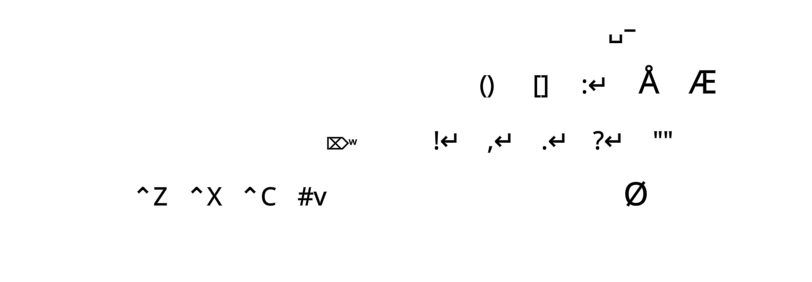
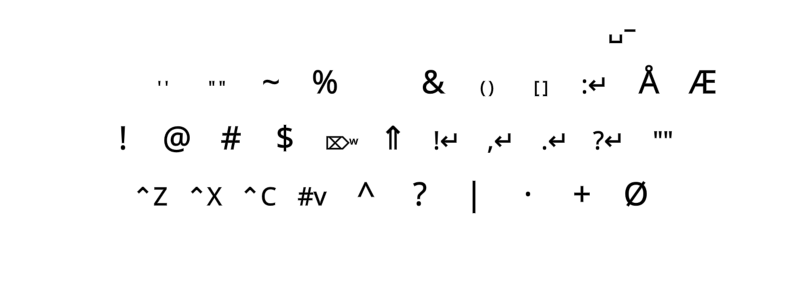
CoDeKey mapping tweaks
* Added and moved some mappings on the Compose_0 DK

diff --git a/README.md b/README.md
@@ -167,15 +167,14 @@ EPKL & Games
 ------------
 There are some pitfalls to using a keyboard remapping program like EPKL for gaming, which uses the keyboard very differently.
 
+TL;DR: Don't use eD-type (state mapped) layouts for gaming; eD2VK is okay. For key-intensive games like FPS, probably (auto-)suspend EPKL.
+
 In gaming a key is often held down for a longish time. This may lead to some problems:
 * The underlying OS layout sends repeated KeyDown key events that are picked up and processed by EPKL. KeyUp is only sent once, on key release.
 * When sending characters, AutoHotkey sends a KeyDown followed immediately by a KeyUp. So inbetween each sent KeyDown there will be an extra KeyUp.
     - The result of this is often choppy game controls. Also, the MonkeyType typing test site has a cheat detection that interprets this behavior as suspect.
-    - The solution is to use a VK/SC or System mapped layout (EPKL v1.4+). These send only the KeyDown events from the OS with no KeyUp until you release the key.
+    - The solution is to use a key mapped (VK/SC/eD2VK or System) layout. These send only the KeyDown events from the OS with no KeyUp until you release the key.
     - ShiftState maps like eD must still send input with KeyDown-KeyUp. If you use an eD-type layout, you can make EPKL sleep whenever your game is active.
-* Too many key presses in too short time makes normal AHK scripts miss key presses. EPKL uses a buffer queue to avoid this, but this buffer may eventually overflow.
-    - When you hold down a key for too long, EPKL may continue sending input events for a while after you let it go. EPKL may act strangely afterwards.
-    - To avoid this when using, say, Extend isn't so hard once you get used to it. But for many games it's still a problem. I'm working on a solution.
 * You can suspend EPKL at any time with its Suspend hotkey (default `Ctrl+Shift+3`). If you want your layout in-game, you may have to use a [MSKLC install][PklKLC].
 * If you want EPKL to suspend itself when your game or webpage is active, you can use the `suspendingApps` setting; see the [Settings file][SetDef].
 * You could try setting the Windows Key Repeat speed as low as possible, but I'm unsure whether it'll really help.
@@ -420,20 +419,14 @@ KNOWN ISSUES:
     - If your game doesn't work well with EPKL, you can use the `suspendingApps` setting to auto-suspend EPKL when the game's active.
     - If you need your layout for the game, you can use a VK/SC-mapped layout, a `MSKLC` install or whatever works for you. See the [Other\MSKLC][PklKLC] folder.
     - Note that EPKL v1.4+ has a send mode for ScanCode and VirtualKey mapped keys that should fix this problem!
-* Another effect of key repeats may be key buffer overflow, especially when using Extend combos.
-    - This is most notable when holding down Extend arrow combos such as `Ext+S+N` (select previous letter) for a while.
-    - Again, to effect this EPKL has to send more key presses including modifier up/down and key up/down.
-    - The result may be that EPKL's hotkey buffer overflows. Keys and modifiers may get stuck as a result.
-    - I've tried hard to get rid of this problem and it's much better than it used to be, but it's not completely gone.
-    - To mostly avoid this problem, use e.g., `Ext+T+S+N` to select whole words instead of single characters.
-    - Also, try not to hold your Extend combos down for too long if you can avoid it. You can often break it up a little with some training.
-    - If you do get in trouble, use the `Refresh` menu option to restart EPKL. That usually does the trick.
+    - There is also an eD2VK layout type that uses VK mapping based on an eD-type base layout. AltGr mappings won't work then.
 * ISO VK layouts may not send the right OEM_# key VK codes for all ISO locales.
     - This is bad for QWERTZ/AZERTY etc. Known affected locales are: UK, De, Fr, Be…
     - State mapped layouts should work, or you could figure out which VK codes are the right ones and edit the layout files accordingly.
     - Finding a more robust solution is on my TODO list. There should be new options shortly, including more robust ScanCode mappings.
 * Using the `Colemak w/ Caps -> Backspace` MSKLC install found on [colemak.com][CmkCom] will cause the Back and Caps keys to be swapped. Also, Extend will not work.
     - This is due to that layout being hacked to provide the Caps-to-Back remapping. Please use a normal Windows layout with EPKL.
+    - If you wish to hard swap keys, a better and safer way is to use the [SharpKeys][ShrpKy] program included with EPKL.
 * Windows intercepts certain key combinations like <kbd>Ctrl</kbd>+<kbd>Alt</kbd>+<kbd>Del</kbd> and <kbd>Win</kbd>+<kbd>L</kbd>
     - Consequently, these combinations may work oddly with state remaps like eD. Keys may end up working as both unmapped and remapped.
     - A workaround for this is to map a shortcut to `α#e` for accessing <kbd>Win</kbd>+<kbd>E</kbd> on Colemak. For Ext-tap, there's one on `{Ext,w}`.

diff --git a/Other/README.md b/Other/README.md
@@ -16,8 +16,10 @@ In this folder are some files that aren't used by EPKL but may still be interest
 	- Remappings can happen at the HKEY_LOCAL_MACHINE\SYSTEM level (for all users) or HKEY_CURRENT_USER only.
 	- Only one such remap script will take effect at a time, so if you want to do two things you have to edit your .reg file.
 	- The SetWinApp script may be used to set what apps the labels "App1" and "App2" refer to, e.g., for the Extend1 layer.
-- Instead of using RegEdit scripts, you could use the [SharpKeys program][ShrpKy] which does most of the same more safely.
+- Instead of using RegEdit scripts, you can use the [SharpKeys][ShrpKy] program which does most of the same more safely.
 	- I warmly recommend SharpKeys. It is available at the [Microsoft Store][ShrpMS] too, so it's quite official.
+	- It's hard to remap modifiers like the Alt keys well using EPKL. SharpKeys complements EPKL excellently in this respect.
+	- I use a combo of EPKL+SharpKeys to implement my BigBag [Modifier Modness][BBTMod] thumb keys. I'm very happy with that.
 - There's a MSKLC folder, that's about the Microsoft Keyboard Layout Creator program. With it you can make installable layouts.
 	- For a good guide to getting and using MSKLC, see [Henri's MSKLC Guide][MSKLCg].
 	- You'll need to install MSKLC from Microsoft's site. With it you can look at existing Win layouts and make new ones.
@@ -37,3 +39,4 @@ In this folder are some files that aren't used by EPKL but may still be interest
 [MSPTKM]: https://learn.microsoft.com/en-us/windows/powertoys/keyboard-manager (info on Microsoft PowerToys Keyboard Manager)
 [MSKLCg]: https://msklc-guide.github.io/ (Henri's MSKLC Guide)
 [KbdEdt]: http://www.kbdedit.com/manual/manual_index.html (KbdEdit online manual)
+[BBTMod]: https://dreymar.colemak.org/ergo-mods.html#modifiers

diff --git a/Files/README.md b/Files/README.md
@@ -77,6 +77,12 @@ Some of the mappings for my tap-Extend Kaomoji layer in the [`_eD_DeadKeys.ini`]
 ```
 <br>
 
+The CoDeKey dead key is a special key (I have it on a thumb key) that lets you access a layer designed for typing comfort:
+![EPKL help image, for the first CoDeKey DK layer](../Other/Docs/CoDeKey_s0_ISO-AWide_EPKL_marked.png)  
+
+_CoDeKey DK help image, marked with color. Pink: Punctuation-space-capitalization. Yellow: Reach reduction._
+<br><br>
+
 Extend1 mappings for the upper and home rows, from the [`_eD_Extend.ini`](./_eD_Extend.ini) file:
 ```
 QW_Q  = Esc
